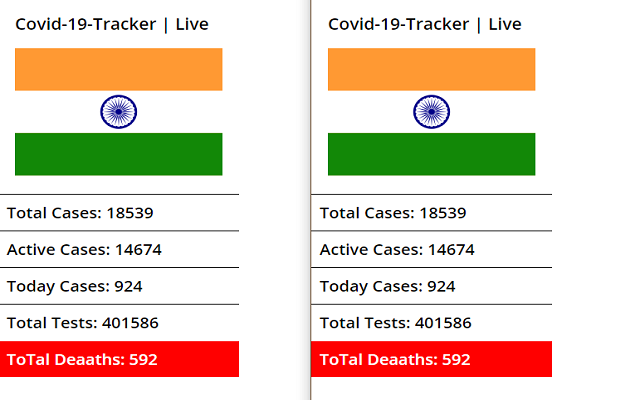
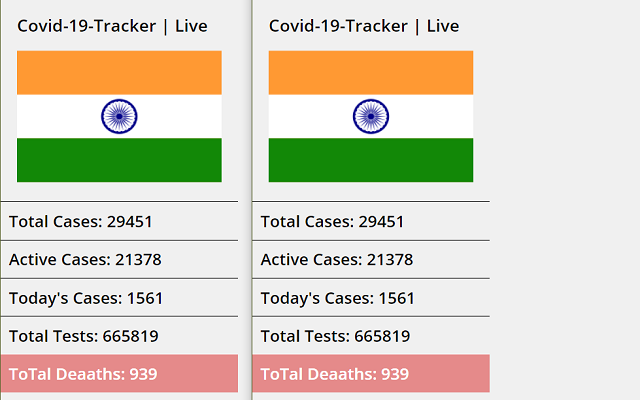
added static img and some modification in css

Changed region(s): [[0.0, 0.0, 0.875, 1.0], [0.0, 0.03, 0.3438, 0.09]]

diff --git a/covid-tracker/popup.html b/covid-tracker/popup.html
@@ -19,6 +19,7 @@
             /* background: url(img/bg.jpg) no-repeat center; */
             background-size: cover;
             /* color: #ffffff; */
+            background-color: #f0f0f0;
 
         }
         /* img {
@@ -37,7 +38,7 @@
             padding: 0 20px 20px;
         }
         p#totalDeaths {
-            background-color: red;
+            background-color: #e58a8a;
             color: #ffffff;
         }
     </style>
@@ -46,7 +47,7 @@
 <body>
     <div class="top-header">
         <h2>Covid-19-Tracker | Live</h2>
-        <img src='https://raw.githubusercontent.com/NovelCOVID/API/master/assets/flags/in.png' alt="National Flag">
+        <img src='img/in.png' alt="National Flag">
     </div>
     <p id="totalCases">Total Cases: </p>
 

diff --git a/covid-tracker/popup.js b/covid-tracker/popup.js
@@ -4,11 +4,10 @@ fetch('https://corona.lmao.ninja/v2/countries/India')
 })
 .then(data =>{
     console.log(data); 
-    document.getElementById('totalDeaths').textContent += data.deaths;
+    
     document.getElementById('totalCases').textContent += data.cases;
     document.getElementById('activeCases').textContent += data.active;
-
     document.getElementById('todayCases').textContent += data.todayCases;
     document.getElementById('tests').textContent += data.tests;
-
+    document.getElementById('totalDeaths').textContent += data.deaths;
 })
